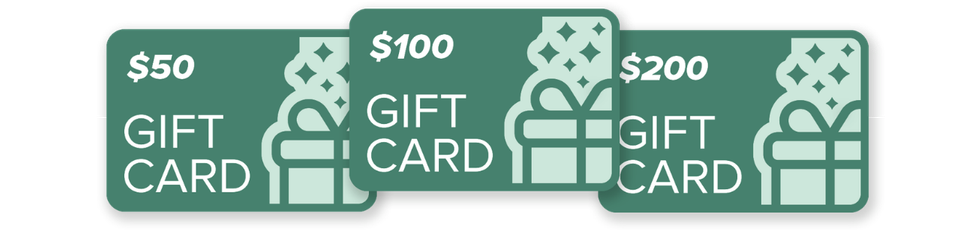
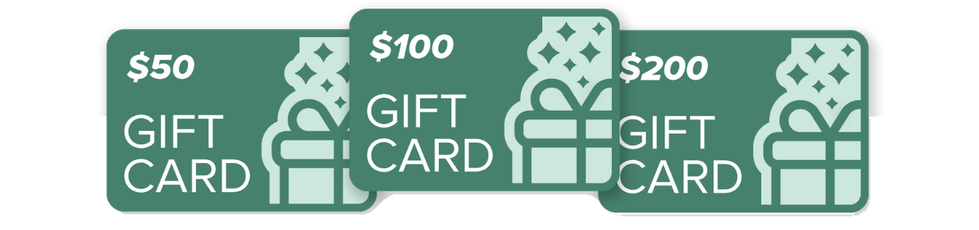
Adapt holiday email: transparent gift cards, home tips in condition cards
Claude-Session: https://claude.ai/code/session_01NgfnHg1EiRm2ki89S8Rt2g

Changed region(s): [[0.0919, 0.8217, 0.6129, 0.9739], [0.6129, 0.913, 0.8887, 0.9739], [0.8887, 0.5174, 0.9193, 0.913]]

diff --git a/AHC-ACW/email/holiday-2026/index.html b/AHC-ACW/email/holiday-2026/index.html
@@ -79,9 +79,24 @@
   <tr><td class="pad" style="background:#008066;padding:38px 44px 40px 44px;">
     <h2 style="margin:0 0 20px 0;font-size:30px;line-height:1.2;font-weight:800;color:#ffffff;text-align:center;">What's Walking In Our Door Lately</h2>
     <table role="presentation" width="100%" cellpadding="0" cellspacing="0">
-      <tr><td style="padding:0 0 12px 0;"><a href="https://adaptchiropracticwellness.com/conditions/tennis-elbow/?utm_source=tdc&amp;utm_medium=email&amp;utm_campaign=holiday-2026" target="_blank" style="display:block;background:#ffffff;border-radius:10px;padding:16px 22px;text-decoration:none;color:#222222;"><strong style="font-size:17px;">Elbow pain when you grip &rarr;</strong><br><span style="font-size:15px;line-height:1.5;color:#4b5563;">Tennis elbow that rest alone hasn't fixed.</span></a></td></tr>
-      <tr><td style="padding:0 0 12px 0;"><a href="https://adaptchiropracticwellness.com/conditions/plantar-fasciitis/?utm_source=tdc&amp;utm_medium=email&amp;utm_campaign=holiday-2026" target="_blank" style="display:block;background:#ffffff;border-radius:10px;padding:16px 22px;text-decoration:none;color:#222222;"><strong style="font-size:17px;">Heel pain on your first steps &rarr;</strong><br><span style="font-size:15px;line-height:1.5;color:#4b5563;">Worst in the morning? Usually plantar fasciitis.</span></a></td></tr>
-      <tr><td><a href="https://adaptchiropracticwellness.com/conditions/achilles-tendonitis/?utm_source=tdc&amp;utm_medium=email&amp;utm_campaign=holiday-2026" target="_blank" style="display:block;background:#ffffff;border-radius:10px;padding:16px 22px;text-decoration:none;color:#222222;"><strong style="font-size:17px;">Achilles sore after a run &rarr;</strong><br><span style="font-size:15px;line-height:1.5;color:#4b5563;">Stubborn tendon pain that keeps flaring up.</span></a></td></tr>
+      <tr><td style="padding:0 0 12px 0;"><table role="presentation" width="100%" cellpadding="0" cellspacing="0" style="background:#ffffff;border-radius:10px;"><tr><td style="padding:20px 24px 18px 24px;text-align:left;">
+        <strong style="font-size:18px;color:#222222;">Elbow pain when you grip</strong><br><span style="font-size:15px;line-height:1.5;color:#4b5563;">Usually tennis elbow, and rest alone rarely fixes it.</span>
+        <p style="margin:12px 0 6px 0;font-size:13px;font-weight:800;letter-spacing:1px;color:#008066;">TRY THIS AT HOME</p>
+        <ul style="margin:0 0 12px 0;padding-left:20px;"><li style="margin:0 0 6px 0;font-size:15px;line-height:1.5;color:#222222;">Lift palm-up, like carrying a tray, while it heals.</li><li style="margin:0 0 6px 0;font-size:15px;line-height:1.5;color:#222222;">Loosen your grip on the mouse, tools or racket. A death grip loads the tendon all day.</li><li style="margin:0 0 6px 0;font-size:15px;line-height:1.5;color:#222222;">A forearm strap can take the edge off during work or play.</li></ul>
+        <a href="https://adaptchiropracticwellness.com/conditions/tennis-elbow/?utm_source=tdc&amp;utm_medium=email&amp;utm_campaign=holiday-2026" target="_blank" style="font-size:15px;font-weight:700;color:#008066;text-decoration:underline;">Learn how we treat tennis elbow &rarr;</a>
+      </td></tr></table></td></tr>
+      <tr><td style="padding:0 0 12px 0;"><table role="presentation" width="100%" cellpadding="0" cellspacing="0" style="background:#ffffff;border-radius:10px;"><tr><td style="padding:20px 24px 18px 24px;text-align:left;">
+        <strong style="font-size:18px;color:#222222;">Heel pain on your first steps</strong><br><span style="font-size:15px;line-height:1.5;color:#4b5563;">Worst in the morning? Usually plantar fasciitis.</span>
+        <p style="margin:12px 0 6px 0;font-size:13px;font-weight:800;letter-spacing:1px;color:#008066;">TRY THIS AT HOME</p>
+        <ul style="margin:0 0 12px 0;padding-left:20px;"><li style="margin:0 0 6px 0;font-size:15px;line-height:1.5;color:#222222;">Before you stand up in the morning, point and flex your foot 10 to 15 times.</li><li style="margin:0 0 6px 0;font-size:15px;line-height:1.5;color:#222222;">Skip going barefoot on hard floors for now. What you stand on all day matters.</li><li style="margin:0 0 6px 0;font-size:15px;line-height:1.5;color:#222222;">Slow calf raises a few times a week build the strength your foot needs.</li></ul>
+        <a href="https://adaptchiropracticwellness.com/conditions/plantar-fasciitis/?utm_source=tdc&amp;utm_medium=email&amp;utm_campaign=holiday-2026" target="_blank" style="font-size:15px;font-weight:700;color:#008066;text-decoration:underline;">Learn how we treat heel pain &rarr;</a>
+      </td></tr></table></td></tr>
+      <tr><td style="padding:0;"><table role="presentation" width="100%" cellpadding="0" cellspacing="0" style="background:#ffffff;border-radius:10px;"><tr><td style="padding:20px 24px 18px 24px;text-align:left;">
+        <strong style="font-size:18px;color:#222222;">Achilles sore after a run</strong><br><span style="font-size:15px;line-height:1.5;color:#4b5563;">Stiff in the morning, flares up when you train.</span>
+        <p style="margin:12px 0 6px 0;font-size:13px;font-weight:800;letter-spacing:1px;color:#008066;">TRY THIS AT HOME</p>
+        <ul style="margin:0 0 12px 0;padding-left:20px;"><li style="margin:0 0 6px 0;font-size:15px;line-height:1.5;color:#222222;">Keep calf stretches gentle. Skip hanging your heel off a step.</li><li style="margin:0 0 6px 0;font-size:15px;line-height:1.5;color:#222222;">Strength beats stretching here: slow heel raises usually help more.</li><li style="margin:0 0 6px 0;font-size:15px;line-height:1.5;color:#222222;">Mild pain on a run that's gone by the next morning is usually OK. Felt a pop? Get checked the same day.</li></ul>
+        <a href="https://adaptchiropracticwellness.com/conditions/achilles-tendonitis/?utm_source=tdc&amp;utm_medium=email&amp;utm_campaign=holiday-2026" target="_blank" style="font-size:15px;font-weight:700;color:#008066;text-decoration:underline;">Learn how we treat Achilles pain &rarr;</a>
+      </td></tr></table></td></tr>
     </table>
   </td></tr>
 
